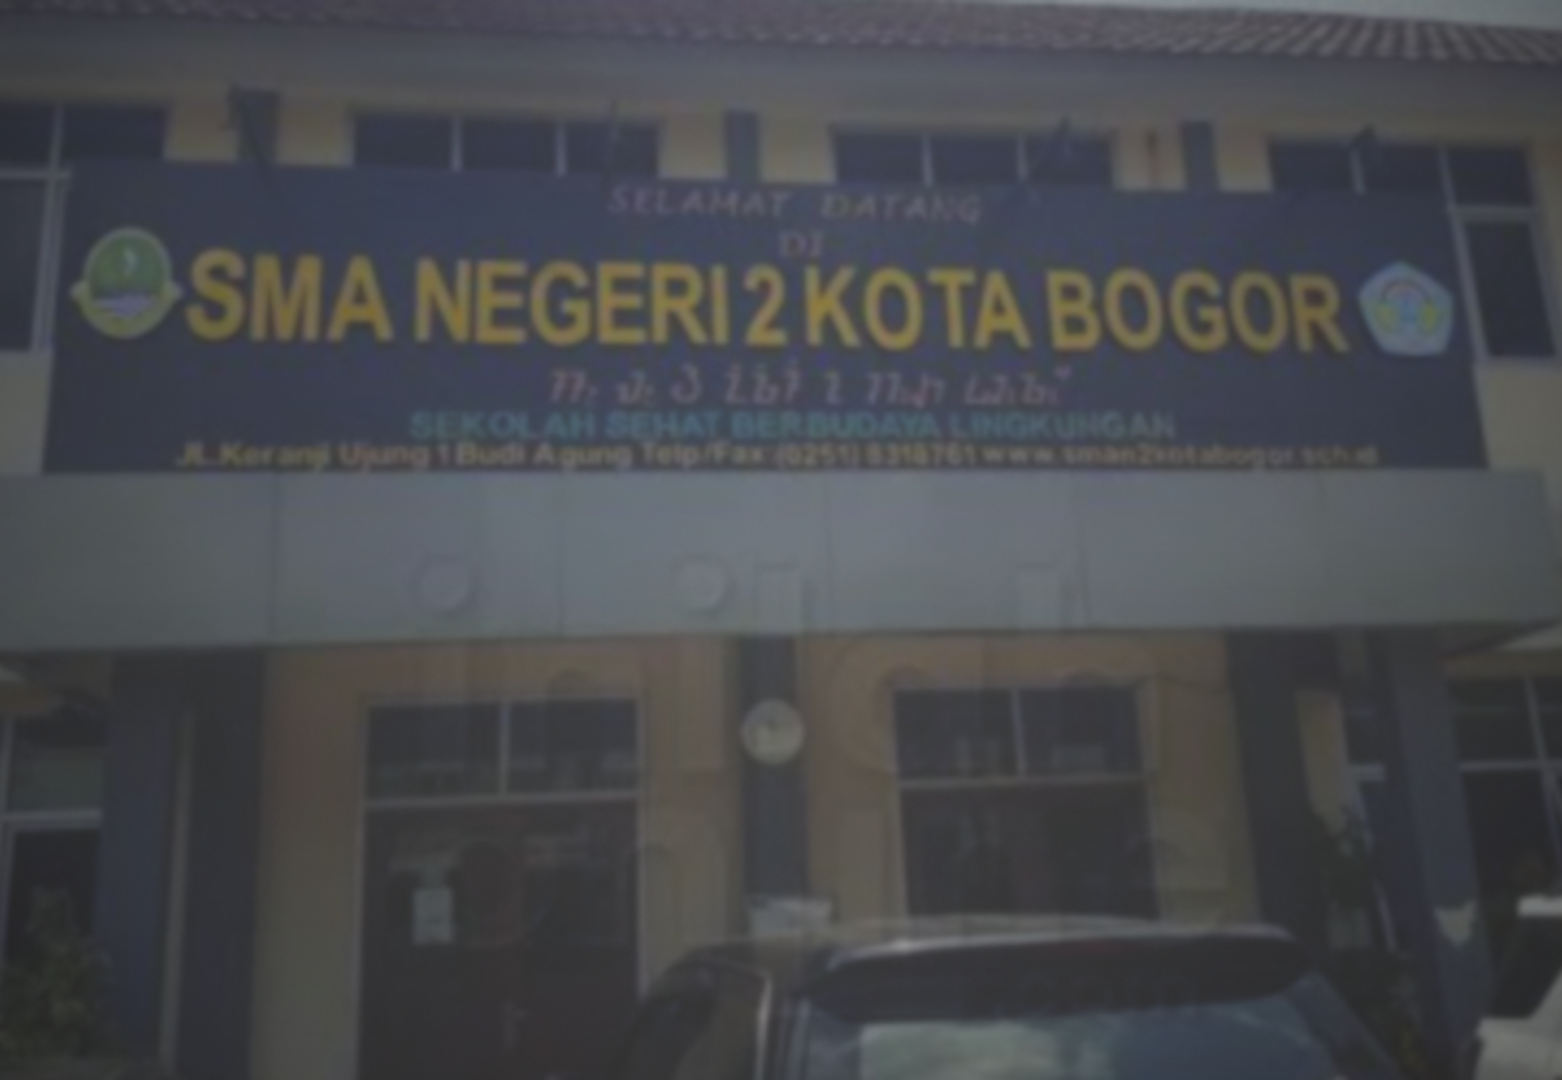
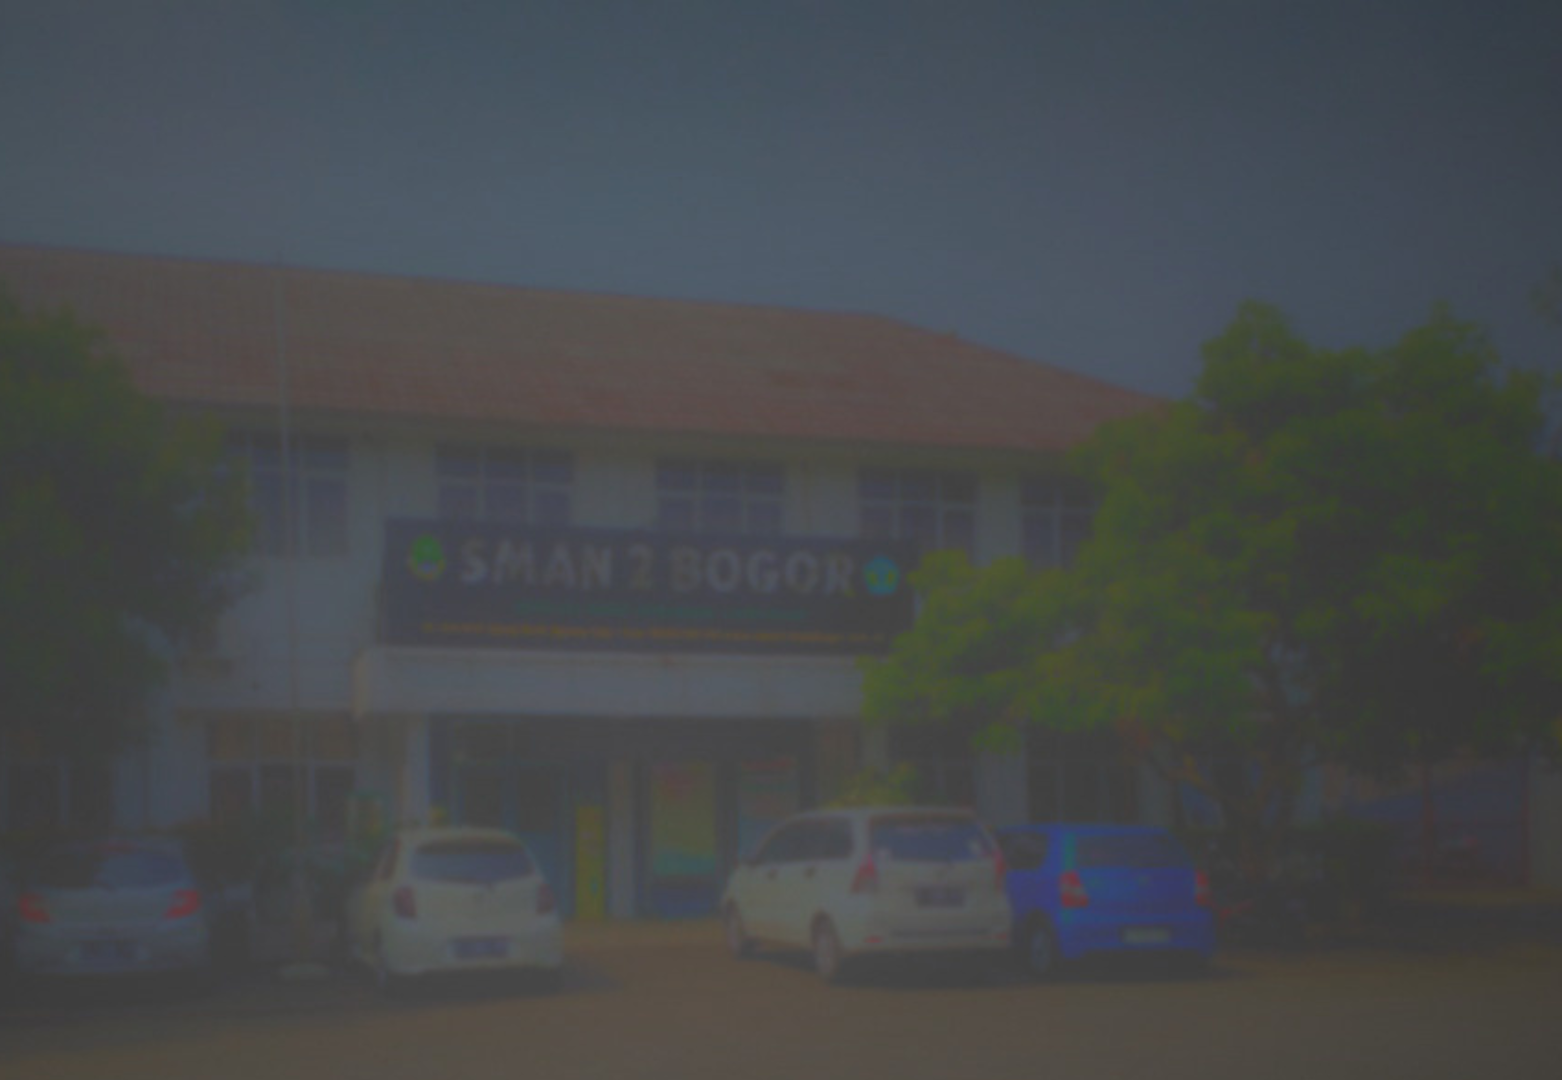
test: Add unit test for Interest Model

diff --git a/static/css/style.css b/static/css/style.css
@@ -242,23 +242,26 @@ h1, .brand {
 
 .edu-second-row {
     width: 250px;
-    height: 220px;
+    height: 200px;
     padding: 4.25rem 1.5rem;
     line-height: 1.5;
+
+    border-radius: var(--radius);
+    border: 1.5px solid rgb(142, 119, 231);
+
+    color: rgb(150, 168, 177, 0.0);
+
+}
+.edu-second-row:hover {
+    box-shadow: 0 0 10px #4EC9EF, 0 0 10px #4EC9EF;
 
     font-size: 1rem;
     text-transform: none;
     text-align: center;
     letter-spacing: 0.02em;
-    color: black;
+    color: rgb(150, 168, 177);
 
     font-weight: 600;
-
-    background-color: #722c68;
-
-    background-color: var(--ink);
-    border-radius: var(--radius);
-    border: 6px solid rgb(142, 119, 231);
 }
 
 #uni {
@@ -275,18 +278,12 @@ h1, .brand {
 #high:hover {
     background-image: url("/static/img/SMANDA2.png");
 }
-
-.edu-third-row {
-    display: inline-block;
-    color: gray;
-    text-decoration: none;
-    padding-left: 1rem;
-    margin-top: 0.25rem;
+#middle {
+    background-image: url("/static/img/SPENSA.png");
+    background-size: cover;
 }
-
-.edu-third-row:hover {
-    color: #d95d39;
-    text-decoration: none;
+#middle:hover {
+    background-image: url("/static/img/SPENSA1.png");
 }
 
 
@@ -376,7 +373,7 @@ h1, .brand {
 
 .interest-card {
     padding: 1.25rem;
-    background-color: #fff;
+    background-color: rgba(255, 255, 255, 0.15);   /* dibuat jd agak transparan */
     border: 1px solid var(--line);
     border-radius: var(--radius);
 }

diff --git a/templates/index.html b/templates/index.html
@@ -64,12 +64,12 @@
 
                     <div class="edu-container">
                         <dd class="edu-second-row" id="uni"> University of Indonesia <br>
-                            <a href="https://cs.ui.ac.id/" class="edu-third-row"> Faculty of Computer Science </a> 
+                             Faculty of Computer Science
                             <br> <br> 2025 - 2029
                         </dd>
                             
                         <dd class="edu-second-row" id="high"> SMA Negeri 2 Bogor <br>
-                            <a href="https://id.wikipedia.org/wiki/SMA_Negeri_2_Bogor" class="edu-third-row"> Natural Science </a> 
+                            Natural Science
                             <br> <br> 2022 - 2025
                         </dd>
                             

diff --git a/main/tests.py b/main/tests.py
@@ -7,6 +7,7 @@ from django.urls import reverse
 from django.utils import timezone
 
 from main.models import Experience
+from main.models import Interest
 
 
 class MainTest(TestCase):
@@ -16,6 +17,11 @@ class MainTest(TestCase):
             description="Membantu mahasiswa memahami pengembangan web.",
             category="part-time",
         )
+        self.interest = Interest.objects.create(
+            title="Web Development",
+            description="Build a Responsive Web Design with Interactive Components using JavaScript, HTML5, and Modern CSS.",
+            category="technology",
+        )
 
     def test_main_url_is_accessible(self):
         response = self.client.get(reverse("main:show_main"))
@@ -24,6 +30,7 @@ class MainTest(TestCase):
         self.assertTemplateUsed(response, "index.html")
         self.assertNotContains(response, self.experience.title)
         self.assertContains(response, f'href="{reverse("main:show_experience")}"')
+
 
     def test_nonexistent_page_returns_404(self):
         response = self.client.get("/halaman-yang-tidak-ada/")
@@ -60,3 +67,24 @@ class MainTest(TestCase):
         self.assertFalse(self.experience.is_ongoing)
         self.assertContains(response, "Selesai")
         self.assertNotContains(response, "Sedang berlangsung")
+
+    # Tugas 02 : Test Interest Model
+    def test_interest_model(self):
+        self.assertEqual(str(self.interest), "Web Development")
+        self.assertEqual(self.interest.category, "technology")
+        self.assertEqual(self.interest.description, "Build a Responsive Web Design with Interactive Components using JavaScript, HTML5, and Modern CSS."),
+
+    def test_interest_page(self):
+            response = self.client.get(reverse("main:show_interest"))
+    
+            self.assertEqual(response.status_code, 200)
+            self.assertTemplateUsed(response, "interest.html")
+            self.assertContains(response, self.interest.title)
+            self.assertContains(response, self.interest.description)
+            self.assertContains(response, f'href="{reverse("main:show_main")}"')
+    
+    def test_empty_interest_page(self):
+        Interest.objects.all().delete()
+        response = self.client.get(reverse("main:show_interest"))
+
+        self.assertContains(response, "Belum ada minat yang ditambahkan.")

diff --git a/README.md b/README.md
@@ -16,7 +16,7 @@ Tugas 1 : membuat section baru pada website mengenai Education. Section ini beri
 ``` Pertanyaan Reflektif ```
 
 1. Bagaimana elemen semantik HTML5 membantu dalam membuat static web?
-Iya, saya menggunakan elemen semantik HTML5 tetapi hanya <section> saja, tidak mencakup <article> ataupun <aside>. Dalam pembuatan static web, elemen <section> akan menjadi cara kode untuk membagi kode ke dalam kelompok-kelompok dengan tema nya masing-masing. Dalam Tugas 1 ini, saya menambahkan elemen <section> baru untuk membuat kode terkait latar belakang pendidikan saya. Ini saya bedakan dari <section> sebelumnya dari Tutorial 1 yang isinya mencakup identitas nama, NPM, nama jurusan, nama instansi terkait, media sosial, serta profile photo.
+Iya, saya menggunakan elemen semantik HTML5 tetapi hanya 'section' saja, tidak mencakup 'article' ataupun 'aside'. Dalam pembuatan static web, elemen 'section' akan menjadi cara kode untuk membagi kode ke dalam kelompok-kelompok dengan tema nya masing-masing. Dalam Tugas 1 ini, saya menambahkan elemen 'section' baru untuk membuat kode terkait latar belakang pendidikan saya. Ini saya bedakan dari 'section' sebelumnya dari Tutorial 1 yang isinya mencakup identitas nama, NPM, nama jurusan, nama instansi terkait, media sosial, serta profile photo.
 
 2. Saat mengatur CSS agar tetap responsive, tantangan tata letak apa yang ditemukan?
 Saya pada awalnya menggunakan padding-left agar section baru ini tetap berada di kiri. Namun ternyata, penggunaan padding-left ini menyebabkan section terus menempel di kiri secara permanen ("terkunci"), sehingga tidak interaktif ketika layar kecilkan.
@@ -31,7 +31,7 @@ Dalam hal skalabilitas, semakin banyak konten yang dimasukkan dalam website port
 
 Untuk pengerjaan Tugas 1 ini, saya dibantu dengan Gemini dengan pertanyaan seputar:
 
-1. Berikan penjelasan mengenai elemen <dl>, <dd>, dan <dt> yang ada pada html
+1. Berikan penjelasan mengenai elemen 'dl', 'dd', dan 'dt' yang ada pada html
 Pertanyaan ini digunakan untuk membantu saya dalam pembuatan section baru di file html dimana riwayat pendidikan berada dalam ketiga elemen tersebut.
 
 2. Bagaimana cara membuat teks dengan indentasi di html?
